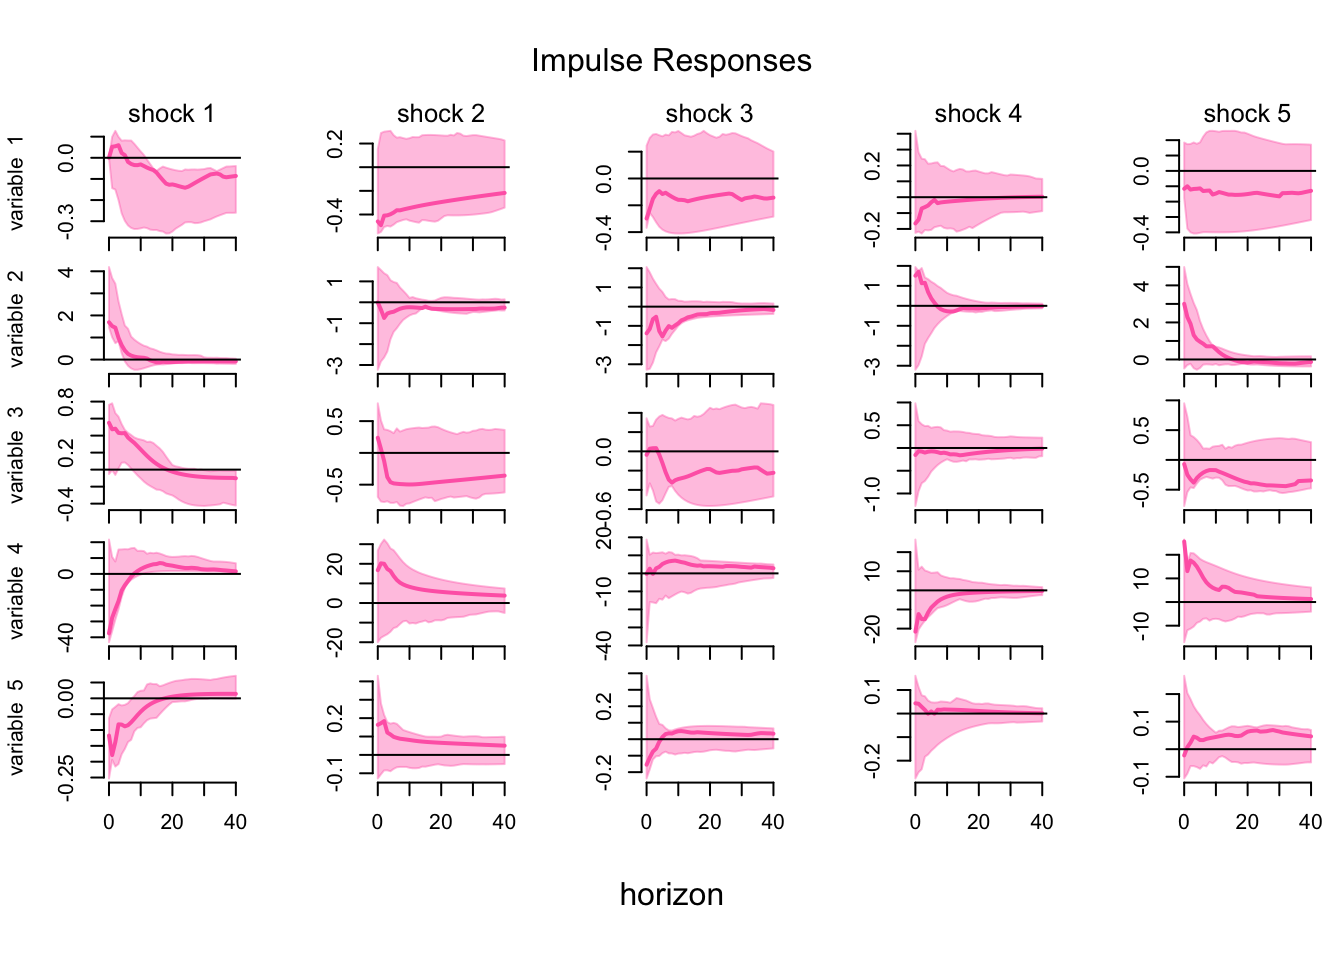
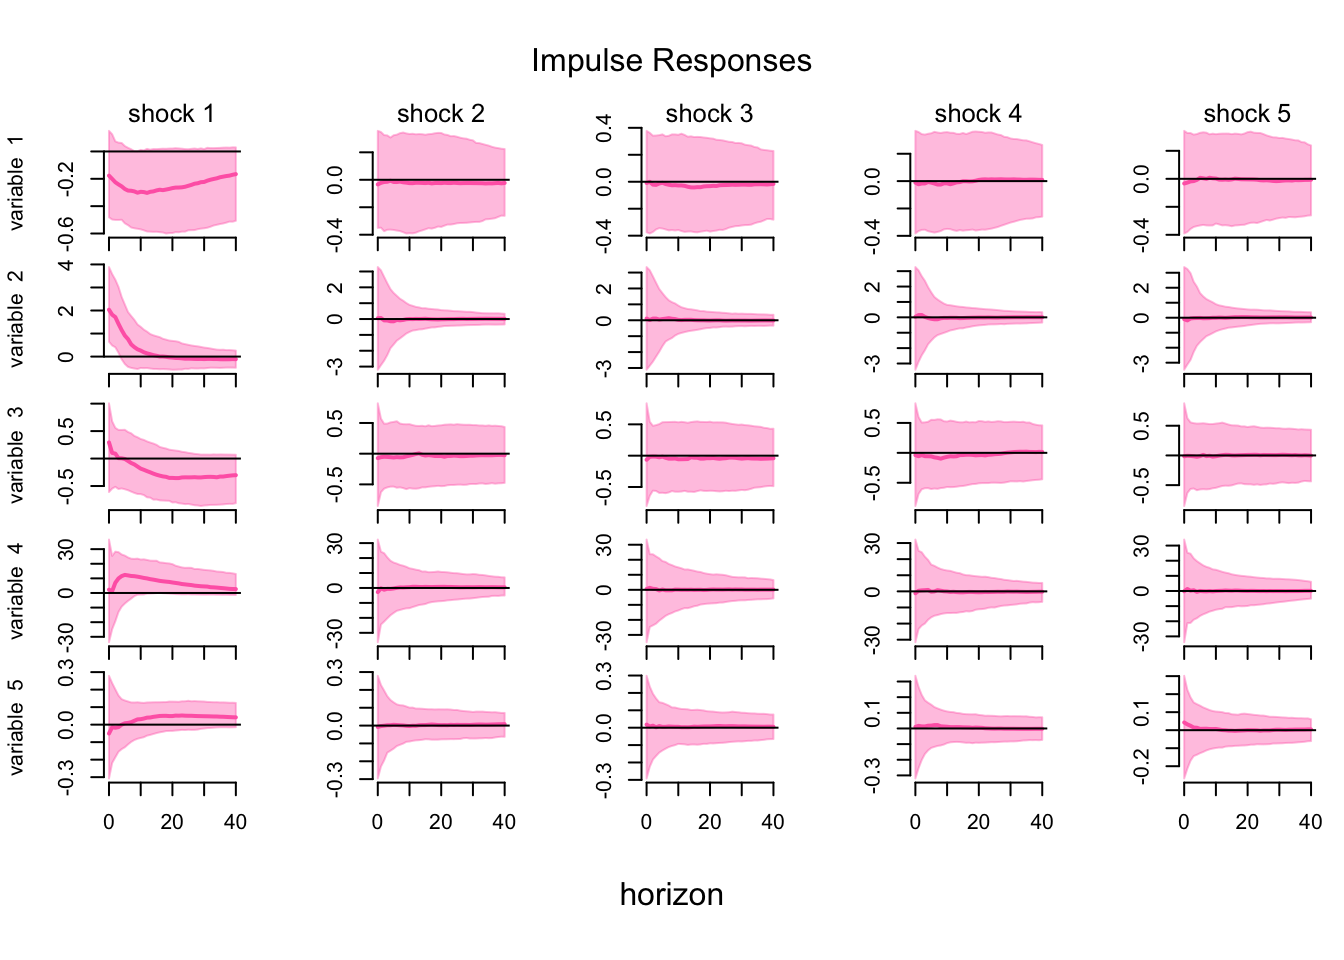
pseudo proof
for importance weight when all of zero, sign and narrative restrictions exist

diff --git a/docs/index.html b/docs/index.html
@@ -163,7 +163,6 @@ div.csl-indent {
   <li><a href="#reduced-form" id="toc-reduced-form" class="nav-link" data-scroll-target="#reduced-form">Reduced form</a></li>
   <li><a href="#orthogonal-reduced-form-parameterization" id="toc-orthogonal-reduced-form-parameterization" class="nav-link" data-scroll-target="#orthogonal-reduced-form-parameterization">Orthogonal reduced-form parameterization</a></li>
   </ul></li>
-  <li><a href="#algorithm" id="toc-algorithm" class="nav-link" data-scroll-target="#algorithm">Algorithm</a></li>
   <li><a href="#bayesian-inference" id="toc-bayesian-inference" class="nav-link" data-scroll-target="#bayesian-inference">Bayesian inference</a>
   <ul class="collapse">
   <li><a href="#derivations" id="toc-derivations" class="nav-link" data-scroll-target="#derivations">Derivations</a></li>
@@ -171,6 +170,10 @@ div.csl-indent {
   <li><a href="#simulation" id="toc-simulation" class="nav-link" data-scroll-target="#simulation">Simulation</a></li>
   </ul></li>
   <li><a href="#identification" id="toc-identification" class="nav-link" data-scroll-target="#identification">Identification</a></li>
+  <li><a href="#algorithm" id="toc-algorithm" class="nav-link" data-scroll-target="#algorithm">Algorithm</a>
+  <ul class="collapse">
+  <li><a href="#extension" id="toc-extension" class="nav-link" data-scroll-target="#extension">Extension</a></li>
+  </ul></li>
   <li><a href="#interpretation" id="toc-interpretation" class="nav-link" data-scroll-target="#interpretation">Interpretation</a>
   <ul class="collapse">
   <li><a href="#irf" id="toc-irf" class="nav-link" data-scroll-target="#irf">IRF</a></li>
@@ -189,7 +192,7 @@ div.csl-indent {
   <li><a href="#irf-2" id="toc-irf-2" class="nav-link" data-scroll-target="#irf-2">IRF</a></li>
   <li><a href="#fevd-2" id="toc-fevd-2" class="nav-link" data-scroll-target="#fevd-2">FEVD</a></li>
   </ul></li>
-  <li><a href="#extension" id="toc-extension" class="nav-link" data-scroll-target="#extension">Extension</a>
+  <li><a href="#extension-1" id="toc-extension-1" class="nav-link" data-scroll-target="#extension-1">Extension</a>
   <ul class="collapse">
   <li><a href="#irf-3" id="toc-irf-3" class="nav-link" data-scroll-target="#irf-3">IRF</a></li>
   <li><a href="#fevd-3" id="toc-fevd-3" class="nav-link" data-scroll-target="#fevd-3">FEVD</a></li>
@@ -555,19 +558,6 @@ f_h^{-1}(\mathbf{B}, \mathbf{\Sigma}, \mathbf{Q}) &amp;= (
 \]</span></p>
 </section>
 </section>
-<section id="algorithm" class="level2">
-<h2 class="anchored" data-anchor-id="algorithm">Algorithm</h2>
-<p>The goal is to sample structural parameters (<span class="math inline">\(\mathbf{A}_0\)</span>, <span class="math inline">\(\mathbf{A}_+\)</span>) satisfying <strong>both</strong> the sign and zero restrictions, but the set of structural parameters satisfying the zero restrictions is of Lebesgue measure zero in the set of all structural parameters (<span class="math inline">\(\mathbb{P}(X=x)=0\)</span> for continuous <span class="math inline">\(X\)</span>). Luckily, we can sample the set of structural parameters satisfying the sign restrictions conditional on satisfying the zero restrictions.</p>
-<p>Here is a high level outline of the algorithm proposed by <span class="citation" data-cites="arias2018inference">Arias, Rubio-Ramı́rez, and Waggoner (<a href="#ref-arias2018inference" role="doc-biblioref">2018</a>)</span>:</p>
-<ol type="1">
-<li>Sample reduced-form parameters (<span class="math inline">\(\mathbf{B}\)</span>, <span class="math inline">\(\mathbf{\Sigma}\)</span>, <span class="math inline">\(\mathbf{Q}\)</span>) conditional on the zero restrictions.</li>
-<li>Set <span class="math inline">\((\mathbf{A}_0, \mathbf{A}_+) = f_h^{-1}(\mathbf{B}, \mathbf{\Sigma}, \mathbf{Q})\)</span>.</li>
-<li>If the sign restrictions are satisfied, keep <span class="math inline">\((\mathbf{A}_0, \mathbf{A}_+)\)</span> and compute an importance weight, otherwise discard.</li>
-<li>Repeat steps 1-3 until the desired number of samples is obtained.</li>
-<li>Resample with replacement using the importance weights.</li>
-</ol>
-<p>The importance sampling step 5 is needed to manipulate the density induced by step 1 to the desired conjugate posterior density.</p>
-</section>
 <section id="bayesian-inference" class="level2">
 <h2 class="anchored" data-anchor-id="bayesian-inference">Bayesian inference</h2>
 <section id="derivations" class="level3">
@@ -661,13 +651,15 @@ p(\mathbf{B},\mathbf{\Sigma}|\mathbf{Y})
 <span id="cb1-30"><a href="#cb1-30" aria-hidden="true" tabindex="-1"></a>  <span class="op">);</span></span>
 <span id="cb1-31"><a href="#cb1-31" aria-hidden="true" tabindex="-1"></a><span class="op">}</span></span></code><button title="Copy to Clipboard" class="code-copy-button"><i class="bi"></i></button></pre></div>
 <p>The second function is to draw from the matrix normal distribution.</p>
-<div class="sourceCode" id="cb2"><pre class="sourceCode cpp code-with-copy"><code class="sourceCode cpp"><span id="cb2-1"><a href="#cb2-1" aria-hidden="true" tabindex="-1"></a>arma<span class="op">::</span>mat rmatnorm_cpp<span class="op">(</span><span class="at">const</span> arma<span class="op">::</span>mat<span class="op">&amp;</span> M<span class="op">,</span></span>
-<span id="cb2-2"><a href="#cb2-2" aria-hidden="true" tabindex="-1"></a>                      <span class="at">const</span> arma<span class="op">::</span>mat<span class="op">&amp;</span> U<span class="op">,</span></span>
-<span id="cb2-3"><a href="#cb2-3" aria-hidden="true" tabindex="-1"></a>                      <span class="at">const</span> arma<span class="op">::</span>mat<span class="op">&amp;</span> V<span class="op">)</span> <span class="op">{</span></span>
-<span id="cb2-4"><a href="#cb2-4" aria-hidden="true" tabindex="-1"></a>  </span>
-<span id="cb2-5"><a href="#cb2-5" aria-hidden="true" tabindex="-1"></a>  mat X <span class="op">=</span> mat<span class="op">(</span>size<span class="op">(</span>M<span class="op">),</span> fill<span class="op">::</span>randn<span class="op">);</span></span>
-<span id="cb2-6"><a href="#cb2-6" aria-hidden="true" tabindex="-1"></a>  <span class="cf">return</span> M <span class="op">+</span> chol<span class="op">(</span>U<span class="op">).</span>t<span class="op">()</span> <span class="op">*</span> X <span class="op">*</span> chol<span class="op">(</span>V<span class="op">);</span></span>
-<span id="cb2-7"><a href="#cb2-7" aria-hidden="true" tabindex="-1"></a><span class="op">}</span></span></code><button title="Copy to Clipboard" class="code-copy-button"><i class="bi"></i></button></pre></div>
+<div class="sourceCode" id="cb2"><pre class="sourceCode cpp code-with-copy"><code class="sourceCode cpp"><span id="cb2-1"><a href="#cb2-1" aria-hidden="true" tabindex="-1"></a>arma<span class="op">::</span>mat rmatnorm_cpp<span class="op">(</span></span>
+<span id="cb2-2"><a href="#cb2-2" aria-hidden="true" tabindex="-1"></a>    <span class="at">const</span> arma<span class="op">::</span>mat<span class="op">&amp;</span> M<span class="op">,</span></span>
+<span id="cb2-3"><a href="#cb2-3" aria-hidden="true" tabindex="-1"></a>    <span class="at">const</span> arma<span class="op">::</span>mat<span class="op">&amp;</span> U<span class="op">,</span></span>
+<span id="cb2-4"><a href="#cb2-4" aria-hidden="true" tabindex="-1"></a>    <span class="at">const</span> arma<span class="op">::</span>mat<span class="op">&amp;</span> V</span>
+<span id="cb2-5"><a href="#cb2-5" aria-hidden="true" tabindex="-1"></a><span class="op">)</span> <span class="op">{</span></span>
+<span id="cb2-6"><a href="#cb2-6" aria-hidden="true" tabindex="-1"></a>  </span>
+<span id="cb2-7"><a href="#cb2-7" aria-hidden="true" tabindex="-1"></a>  mat X <span class="op">=</span> mat<span class="op">(</span>size<span class="op">(</span>M<span class="op">),</span> fill<span class="op">::</span>randn<span class="op">);</span></span>
+<span id="cb2-8"><a href="#cb2-8" aria-hidden="true" tabindex="-1"></a>  <span class="cf">return</span> M <span class="op">+</span> chol<span class="op">(</span>U<span class="op">).</span>t<span class="op">()</span> <span class="op">*</span> X <span class="op">*</span> chol<span class="op">(</span>V<span class="op">);</span></span>
+<span id="cb2-9"><a href="#cb2-9" aria-hidden="true" tabindex="-1"></a><span class="op">}</span></span></code><button title="Copy to Clipboard" class="code-copy-button"><i class="bi"></i></button></pre></div>
 <p>To draw from the inverse Wishart distribution, we use the <code>iwishrnd</code> function from the <code>RcppArmadillo</code> package.</p>
 <p>Using these three functions together, we are able to estimate the reduced-form BVAR model.</p>
 </section>
@@ -767,6 +759,61 @@ p(\mathbf{B},\mathbf{\Sigma}|\mathbf{Y})
 </table>
 <p>The identification strategy is based on the assumption that the optimism shock positively affects stock prices, and has no contemporaneous effect on productivity.</p>
 </section>
+<section id="algorithm" class="level2">
+<h2 class="anchored" data-anchor-id="algorithm">Algorithm</h2>
+<p>To perform this identification, we need an algorithm to sample from the posterior distribution of the structural parameters (<span class="math inline">\(\mathbf{A}_0\)</span>, <span class="math inline">\(\mathbf{A}_+\)</span>) conditional on the zero and sign restrictions.</p>
+<p>However, the set of structural parameters satisfying the zero restrictions is of Lebesgue measure zero in the set of all structural parameters (akin to <span class="math inline">\(\mathbb{P}(X=x)=0\)</span> for continuous <span class="math inline">\(X\)</span>). Luckily, we can sample the set of structural parameters satisfying the sign restrictions conditional on satisfying the zero restrictions.</p>
+<p>Here is a high level outline of the algorithm proposed by <span class="citation" data-cites="arias2018inference">Arias, Rubio-Ramı́rez, and Waggoner (<a href="#ref-arias2018inference" role="doc-biblioref">2018</a>)</span>:</p>
+<ol type="1">
+<li>Sample reduced-form parameters (<span class="math inline">\(\mathbf{B}\)</span>, <span class="math inline">\(\mathbf{\Sigma}\)</span>, <span class="math inline">\(\mathbf{Q}\)</span>) conditional on the zero restrictions.</li>
+<li>Set <span class="math inline">\((\mathbf{A}_0, \mathbf{A}_+) = f_h^{-1}(\mathbf{B}, \mathbf{\Sigma}, \mathbf{Q})\)</span>.</li>
+<li>If the sign restrictions are satisfied, keep <span class="math inline">\((\mathbf{A}_0, \mathbf{A}_+)\)</span> and compute an importance weight, otherwise discard.</li>
+<li>Repeat steps 1-3 until the desired number of samples is obtained.</li>
+<li>Resample with replacement using the importance weights.</li>
+</ol>
+<p>Where step 5 (importance sampling) is needed to manipulate the density induced by step 1 to the desired Nomral-Generalized-Normal posterior density <span class="math inline">\(\mathcal{NGN}\)</span>.</p>
+<p>To be explicit, starting with a Uniform-Normal-Inverse-Wishart prior distribution, the importance weight in step 3 is given by</p>
+<p><span class="math display">\[
+\begin{align*}
+\frac{\mathcal{NGN}(\mathbf{A}_0,\mathbf{A}_+|\mathcal Z, \mathcal S)}{\mathcal{UNIW}(\mathbf{B},\mathbf{\Sigma},\mathbf{Q}|\mathcal Z)v_{(g\circ f_h)|\mathcal Z}(\mathbf{A}_0,\mathbf{A}_+)}
+&amp;=\frac{\mathcal{UNIW}(\mathbf{B},\mathbf{\Sigma},\mathbf{Q}|\mathcal Z, \mathcal S)v_{f_h}(\mathbf{A}_0,\mathbf{A}_+)}{\mathcal{UNIW}(\mathbf{B},\mathbf{\Sigma},\mathbf{Q}|\mathcal Z)v_{(g\circ f_h)|\mathcal Z}(\mathbf{A}_0,\mathbf{A}_+)}\\
+&amp;\propto\frac{|\text{det}(\mathbf{A}_0)|^{-(2N+K+1)}}{v_{(g\circ f_h)|\mathcal Z}(\mathbf{A}_0,\mathbf{A}_+)}
+\end{align*}
+\]</span></p>
+<p>where <span class="math inline">\(\mathcal Z\)</span> denotes satisfying zero restrictions and <span class="math inline">\(\mathcal S\)</span> denotes satisfying the sign restrictions. The numerator is the target density, and the denominator is the proposal density from steps 1-2. Here is the code to calculate this importance weight.</p>
+<div class="sourceCode" id="cb3"><pre class="sourceCode cpp code-with-copy"><code class="sourceCode cpp"><span id="cb3-1"><a href="#cb3-1" aria-hidden="true" tabindex="-1"></a><span class="dt">double</span> log_volume_element<span class="op">(</span></span>
+<span id="cb3-2"><a href="#cb3-2" aria-hidden="true" tabindex="-1"></a>    <span class="at">const</span> arma<span class="op">::</span>field<span class="op">&lt;</span>arma<span class="op">::</span>mat<span class="op">&gt;&amp;</span> Z<span class="op">,</span></span>
+<span id="cb3-3"><a href="#cb3-3" aria-hidden="true" tabindex="-1"></a>    <span class="at">const</span> arma<span class="op">::</span>mat<span class="op">&amp;</span>              A0<span class="op">,</span></span>
+<span id="cb3-4"><a href="#cb3-4" aria-hidden="true" tabindex="-1"></a>    <span class="at">const</span> arma<span class="op">::</span>mat<span class="op">&amp;</span>              Aplus</span>
+<span id="cb3-5"><a href="#cb3-5" aria-hidden="true" tabindex="-1"></a><span class="op">)</span> <span class="op">{</span></span>
+<span id="cb3-6"><a href="#cb3-6" aria-hidden="true" tabindex="-1"></a>  colvec vec_structural <span class="op">=</span> join_vert<span class="op">(</span>vectorise<span class="op">(</span>A0<span class="op">),</span> vectorise<span class="op">(</span>Aplus<span class="op">));</span></span>
+<span id="cb3-7"><a href="#cb3-7" aria-hidden="true" tabindex="-1"></a>  </span>
+<span id="cb3-8"><a href="#cb3-8" aria-hidden="true" tabindex="-1"></a>  mat Dz  <span class="op">=</span> Df<span class="op">([</span>Z<span class="op">](</span><span class="at">const</span> colvec<span class="op">&amp;</span> x<span class="op">)</span> <span class="op">{</span> <span class="cf">return</span> zero_restrictions<span class="op">(</span>Z<span class="op">,</span> x<span class="op">);</span> <span class="op">},</span> vec_structural<span class="op">);</span></span>
+<span id="cb3-9"><a href="#cb3-9" aria-hidden="true" tabindex="-1"></a>  mat Dgf <span class="op">=</span> Df<span class="op">([</span>Z<span class="op">](</span><span class="at">const</span> colvec<span class="op">&amp;</span> x<span class="op">)</span> <span class="op">{</span> <span class="cf">return</span> <span class="va">g_fh_vec</span><span class="op">(</span>Z<span class="op">,</span> x<span class="op">);</span> <span class="op">},</span> vec_structural<span class="op">);</span></span>
+<span id="cb3-10"><a href="#cb3-10" aria-hidden="true" tabindex="-1"></a>  </span>
+<span id="cb3-11"><a href="#cb3-11" aria-hidden="true" tabindex="-1"></a>  mat DN  <span class="op">=</span> Dgf <span class="op">*</span> null<span class="op">(</span>Dz<span class="op">);</span></span>
+<span id="cb3-12"><a href="#cb3-12" aria-hidden="true" tabindex="-1"></a>  </span>
+<span id="cb3-13"><a href="#cb3-13" aria-hidden="true" tabindex="-1"></a>  <span class="cf">return</span> <span class="fl">0.5</span> <span class="op">*</span> log_det<span class="op">(</span>DN<span class="op">.</span>t<span class="op">()</span> <span class="op">*</span> DN<span class="op">).</span>real<span class="op">();</span></span>
+<span id="cb3-14"><a href="#cb3-14" aria-hidden="true" tabindex="-1"></a><span class="op">}</span></span></code><button title="Copy to Clipboard" class="code-copy-button"><i class="bi"></i></button></pre></div>
+<section id="extension" class="level3">
+<h3 class="anchored" data-anchor-id="extension">Extension</h3>
+<p>Besides the zero and sign restrictions, another popular identification scheme proposed by <span class="citation" data-cites="antolin2018narrative">Antolı́n-Dı́az and Rubio-Ramı́rez (<a href="#ref-antolin2018narrative" role="doc-biblioref">2018</a>)</span> is to impose narrative restrictions on the structural shocks and historical decomposition. For example, restricting a structural shock to be negative during some period, and we will apply this to restrict the optimism shock during the Covid-19 pandemic.</p>
+<p>But, the difficulty is that the narrative restrictions <span class="math inline">\(\mathcal{R}\)</span> requires another resample with some importance weight:</p>
+<p><span class="math display">\[
+\frac{1}{\omega(\mathbf{B},\mathbf{\Sigma},\mathbf{Q})} \propto \frac{\mathcal{UNIW}(\mathbf{B},\mathbf{\Sigma},\mathbf{Q}|\mathcal S, \mathcal R)}{\mathcal{UNIW}(\mathbf{B},\mathbf{\Sigma},\mathbf{Q})}
+\]</span></p>
+<p>To combine these two identification schemes, we need to calculate the importance weight when <strong>all</strong> of the three restrictions, zero, sign, and narrative, are present:</p>
+<p><span class="math display">\[
+\begin{align*}
+\frac{\mathcal{NGN}(\mathbf{A}_0,\mathbf{A}_+|\mathcal Z, \mathcal S, \mathcal R)}{\mathcal{UNIW}(\mathbf{B},\mathbf{\Sigma},\mathbf{Q}|\mathcal Z)v_{(g\circ f_h)|\mathcal Z}(\mathbf{A}_0,\mathbf{A}_+)}
+&amp;=\frac{\mathcal{UNIW}(\mathbf{B},\mathbf{\Sigma},\mathbf{Q}|\mathcal Z, \mathcal S, \mathcal R)v_{f_h}(\mathbf{A}_0,\mathbf{A}_+)}{\mathcal{UNIW}(\mathbf{B},\mathbf{\Sigma},\mathbf{Q}|\mathcal Z)v_{(g\circ f_h)|\mathcal Z}(\mathbf{A}_0,\mathbf{A}_+)}\\
+&amp;\propto\frac{1}{\omega(\mathbf{B},\mathbf{\Sigma},\mathbf{Q})}\frac{v_{f_h}(\mathbf{A}_0,\mathbf{A}_+)}{v_{(g\circ f_h)|\mathcal Z}(\mathbf{A}_0,\mathbf{A}_+)}\\
+&amp;\propto\frac{1}{\omega(\mathbf{B},\mathbf{\Sigma},\mathbf{Q})}\frac{|\text{det}(\mathbf{A}_0)|^{-(2N+K+1)}}{v_{(g\circ f_h)|\mathcal Z}(\mathbf{A}_0,\mathbf{A}_+)}
+\end{align*}
+\]</span></p>
+<p>Therefore, it is simply the product of the importance weight for the narrative restrictions and the importance weight for the zero and sign restrictions.</p>
+</section>
+</section>
 <section id="interpretation" class="level2">
 <h2 class="anchored" data-anchor-id="interpretation">Interpretation</h2>
 <p>Two popular methods to interpret the SVAR model are impulse response function (IRF) and forecast error variance decomposition (FEVD) <span class="citation" data-cites="kilian2017structural">(<a href="#ref-kilian2017structural" role="doc-biblioref">Kilian and Lütkepohl 2017</a>, Chap 4)</span>.</p>
@@ -779,7 +826,7 @@ p(\mathbf{B},\mathbf{\Sigma}|\mathbf{Y})
 <section id="fevd" class="level3">
 <h3 class="anchored" data-anchor-id="fevd">FEVD</h3>
 <p>The forecast error variance decomposition (FEVD) is used to quantify the relative importance of the optimism shock in explaining the variability of a <span class="math inline">\(h\)</span>-step ahead forecast of a particular variable. For example, we will examine the proportion of the variability of consumption and hours worked explained by the optimism shock.</p>
-<p>Mathematically, the <span class="math inline">\(i\)</span>-th variable’s forecast error variance decomposition of the <span class="math inline">\(j\)</span>-th shock at horizon <span class="math inline">\(k\)</span> is given by</p>
+<p>Mathematically, the <span class="math inline">\(i\)</span>-th variable’s forecast error variance decomposition of the <span class="math inline">\(j\)</span>-th shock at horizon <span class="math inline">\(h\)</span> is given by</p>
 <p><span class="math display">\[
 \text{FEVD}_j^i(h) = \frac{\text{MSFE}_{j}^{i}(h)}{\sum_{n=1}^{N}\text{MSFE}_{j}^{n}(h)}, \quad \text{MSFE}_{j}^{i}(h) = \sum_{l=0}^{h-1} \mathbf{\Theta}_{ij,l}
 \]</span></p>
@@ -803,42 +850,47 @@ p(\mathbf{B},\mathbf{\Sigma}|\mathbf{Y})
 </section>
 <section id="fevd-1" class="level3">
 <h3 class="anchored" data-anchor-id="fevd-1">FEVD</h3>
+<p>The forecast error variance decomposition is</p>
 </section>
 </section>
 <section id="australian-data" class="level2">
 <h2 class="anchored" data-anchor-id="australian-data">Australian data</h2>
+<p>All subsequent analysis are performed on the Australian data.</p>
 <section id="irf-2" class="level3">
 <h3 class="anchored" data-anchor-id="irf-2">IRF</h3>
 <p>The impulse response functions are</p>
 <div class="cell">
 <div class="cell-output-display">
-<p><img src="index_files/figure-html/unnamed-chunk-19-1.png" class="img-fluid" width="672"></p>
+<p><img src="index_files/figure-html/unnamed-chunk-20-1.png" class="img-fluid" width="672"></p>
 </div>
 </div>
-<p>where shock 1 is the optimism shock. Comparing with the US data, the optimism shock has a much smaller effect on consumption and hours worked in Australia, only stock prices has a significant effect in the short run.</p>
+<p>Comparing with the US data, the optimism shock has a much smaller effect on consumption and hours worked in Australia, only stock prices has a significant effect in the short run.</p>
 </section>
 <section id="fevd-2" class="level3">
 <h3 class="anchored" data-anchor-id="fevd-2">FEVD</h3>
+<p>The forecast error variance decomposition is</p>
 </section>
 </section>
-<section id="extension" class="level2">
-<h2 class="anchored" data-anchor-id="extension">Extension</h2>
-<p>Now we impose an additional narrative restrictions that</p>
-<ul>
-<li>the optimism shock is negative when Covid-19 hits Australia in 2020 Q1.</li>
-</ul>
+<section id="extension-1" class="level2">
+<h2 class="anchored" data-anchor-id="extension-1">Extension</h2>
+<p>Now we introduce an additional narrative restrictions that</p>
+<blockquote class="blockquote">
+<p>the optimism shock is <strong>negative</strong> when Covid-19 hits Australia in 2020 Q1.</p>
+</blockquote>
 <section id="irf-3" class="level3">
 <h3 class="anchored" data-anchor-id="irf-3">IRF</h3>
 <p>The impulse response functions are</p>
 <div class="cell">
 <div class="cell-output-display">
-<p><img src="index_files/figure-html/unnamed-chunk-21-1.png" class="img-fluid" width="672"></p>
+<p><img src="index_files/figure-html/unnamed-chunk-23-1.png" class="img-fluid" width="672"></p>
 </div>
 </div>
 <p>With the additional assumption, we can identify more significant impacts. In the short run, the optimism shock has a positive impact on consumption and a negative impact on hours worked.</p>
+<p>Although not significant, it is interesting to see that the optimism shock has a negative impact on hours worked in Australia in the short run, in contrast to a positive impact in the US.</p>
 </section>
 <section id="fevd-3" class="level3">
-
+<h3 class="anchored" data-anchor-id="fevd-3">FEVD</h3>
+<p>The forecast error variance decomposition is</p>
 
 
 
@@ -847,7 +899,10 @@ p(\mathbf{B},\mathbf{\Sigma}|\mathbf{Y})
 </section>
 
 
-<div id="quarto-appendix" class="default"><section class="quarto-appendix-contents" role="doc-bibliography"><h2 class="anchored quarto-appendix-heading">FEVD</h2><div id="refs" class="references csl-bib-body hanging-indent" role="list">
+<div id="quarto-appendix" class="default"><section class="quarto-appendix-contents" role="doc-bibliography"><h2 class="anchored quarto-appendix-heading">References</h2><div id="refs" class="references csl-bib-body hanging-indent" role="list">
+<div id="ref-antolin2018narrative" class="csl-entry" role="listitem">
+Antolı́n-Dı́az, Juan, and Juan F Rubio-Ramı́rez. 2018. <span>“Narrative Sign Restrictions for SVARs.”</span> <em>American Economic Review</em> 108 (10): 2802–29.
+</div>
 <div id="ref-arias2018inference" class="csl-entry" role="listitem">
 Arias, Jonas E, Juan F Rubio-Ramı́rez, and Daniel F Waggoner. 2018. <span>“Inference Based on Structural Vector Autoregressions Identified with Sign and Zero Restrictions: Theory and Applications.”</span> <em>Econometrica</em> 86 (2): 685–720.
 </div>
